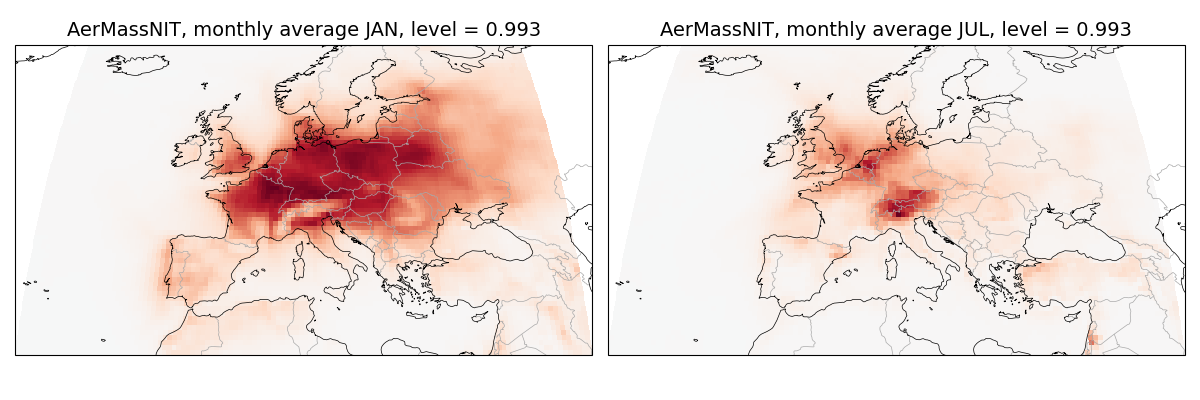
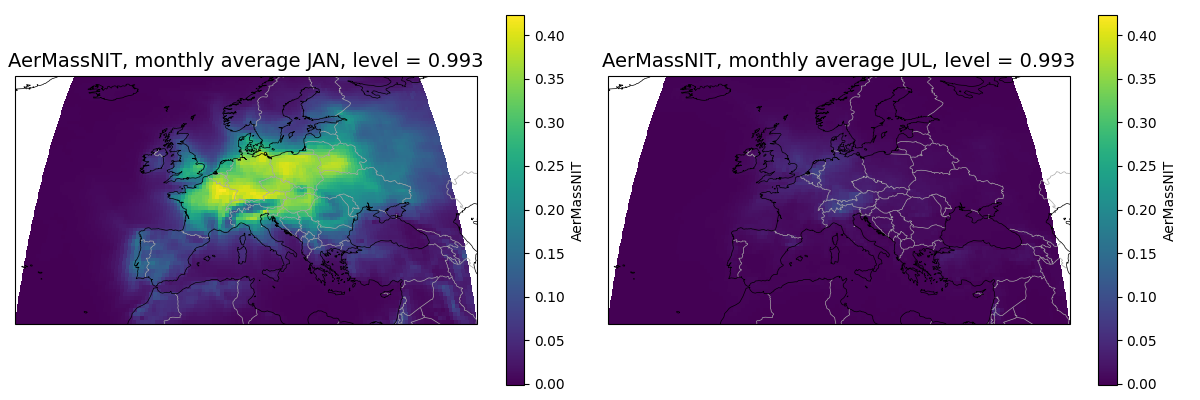
unified the axes within comparisons

diff --git a/monthly_average/timeaveraged_pollutants.py b/monthly_average/timeaveraged_pollutants.py
@@ -21,18 +21,29 @@ for type in types:
     for var in types[type]:
         fig, ax = plt.subplots(1, 2, figsize= [12, 4], subplot_kw={"projection": ccrs.EqualEarth(central_longitude=10)})
         plt.tight_layout()
-    
+
+        daSurf = [[],[]]
         for i, month in enumerate(months):
 
-            daSurf = differencer(type, month, var)
+            daSurf[i] = differencer(type, month, var)
+
+            if i==0:
+                vmin = float(daSurf[i].values.min())
+                vmax = float(daSurf[i].values.max())
+            else:
+                vmin = min(vmin, float(daSurf[i].values.min()))
+                vmax = max(vmax, float(daSurf[i].values.max()))
+
+        for i, month in enumerate(months):
+
             ax[i].add_feature(cfeature.BORDERS.with_scale('50m'), linewidth=0.5, edgecolor='darkgrey')
             ax[i].coastlines(resolution='50m', linewidth=0.5, color='black')
 
             # Plot the data for the current time step
-            daSurf.plot(ax=ax[i], transform=ccrs.PlateCarree(), add_colorbar=False)
+            daSurf[i].plot(ax=ax[i], transform=ccrs.PlateCarree(), vmin=vmin, vmax=vmax)
 
             # Add a title with the current time
-            ax[i].set_title(f"{var}, monthly average {month}, level = {np.round(daSurf.lev.values, 3)}", fontsize=14)
+            ax[i].set_title(f"{var}, monthly average {month}, level = {np.round(daSurf[i].lev.values, 3)}", fontsize=14)
         
        
         plt.savefig(os.path.join(os.path.dirname(__file__), '..', 'monthly_average', 'pollutants_figures',f'{type}_{var}_timeaveraged.png'))
